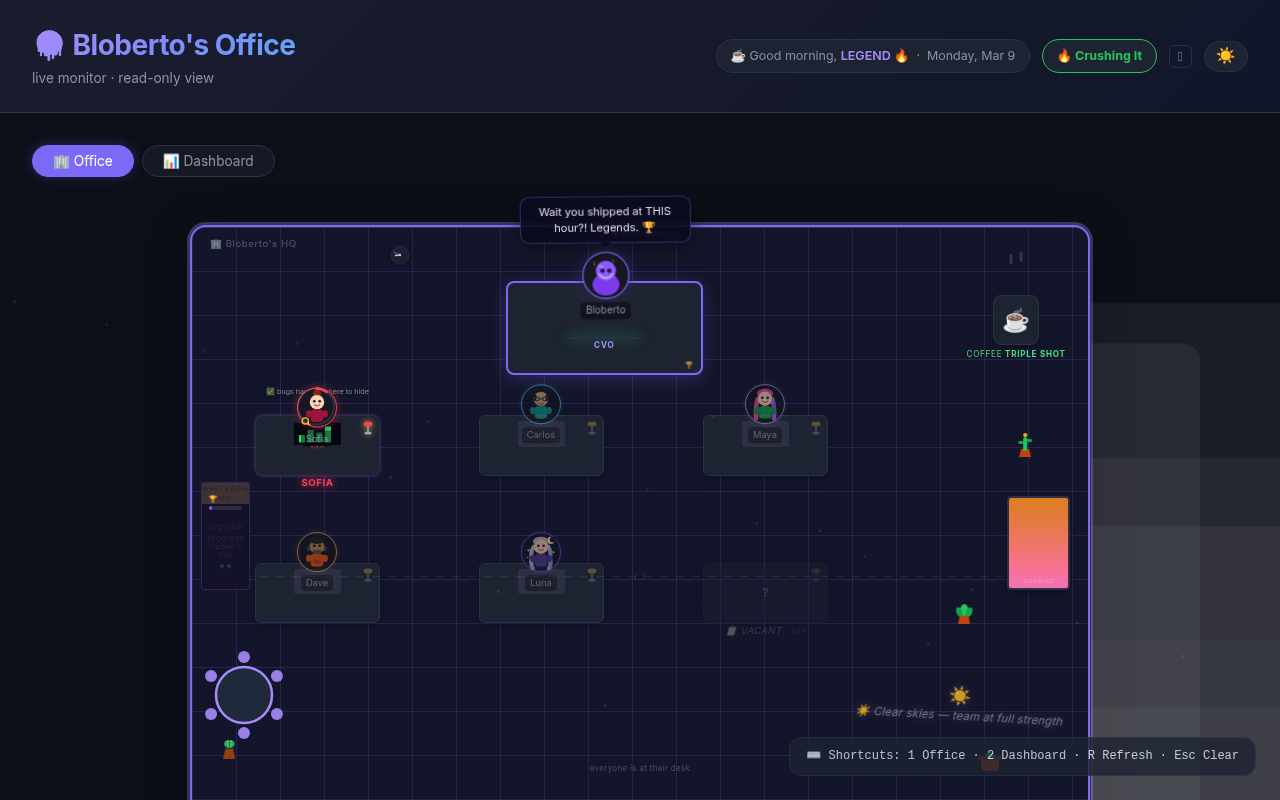
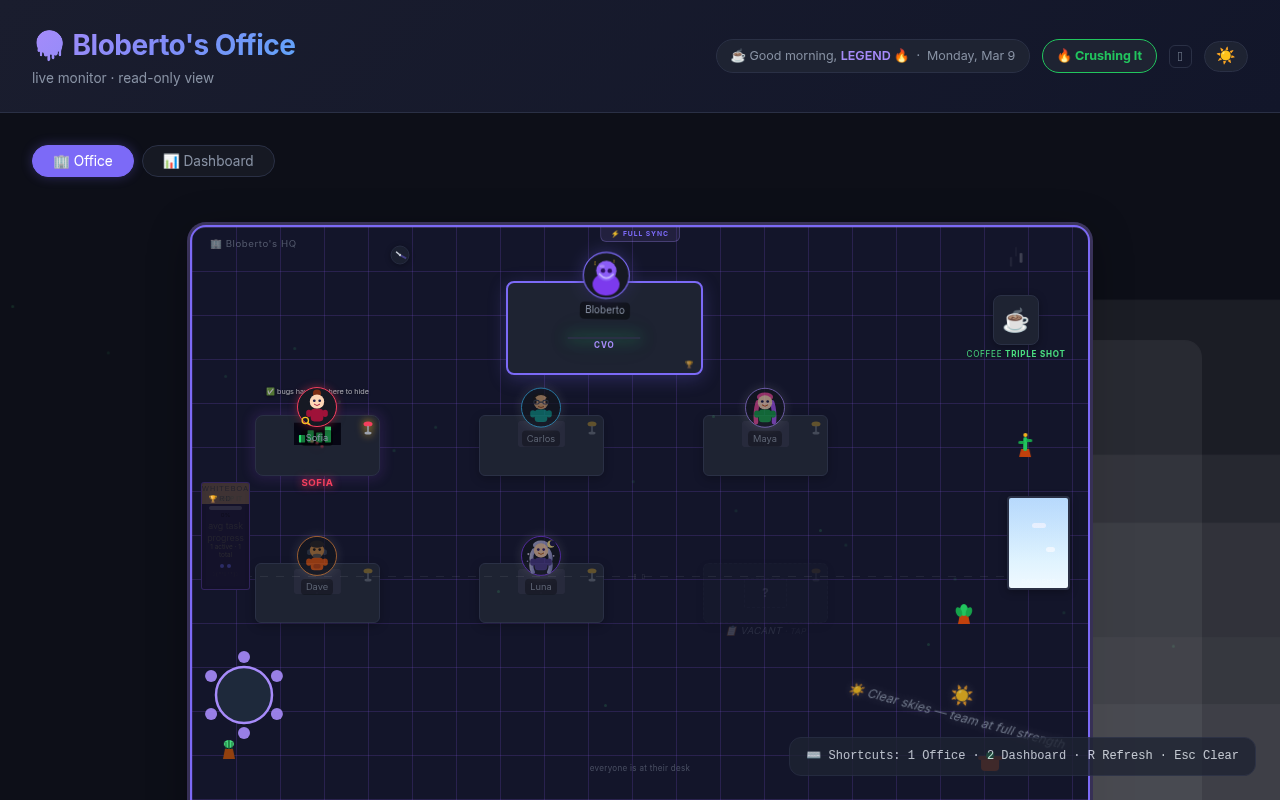
fix: pingReaction routing to correct worker, immutable normalize(), roster normalization
- Bloberto no longer hijacks worker click reactions (Office.jsx)
- normalize() returns new object instead of mutating in-place (App.jsx)
- Roster entries now go through normalize() for .id/.startedAt (App.jsx)

Fixes from Luna creative review #68

diff --git a/src/App.jsx b/src/App.jsx
@@ -769,18 +769,18 @@ export default function App() {
 
     if (workersResult.status === 'fulfilled') {
       const data = workersResult.value
-      const normalize = w => {
-        w.id = w.id || w.name?.toLowerCase().split(' ')[0]
-        w.startedAt = w.startedAt || w.started_at
-        return w
-      }
+      const normalize = w => ({
+        ...w,
+        id: w.id || w.name?.toLowerCase().split(' ')[0],
+        startedAt: w.startedAt || w.started_at
+      })
       // Support both flat array and {workers:[], roster:[]} formats
       if (Array.isArray(data)) {
         setAllWorkers(data.map(normalize))
         setRoster([])
       } else {
         setAllWorkers((data.workers ?? []).map(normalize))
-        setRoster(data.roster ?? [])
+        setRoster((data.roster ?? []).map(normalize))
       }
       setIsLive(true)
     } else {

diff --git a/src/Office.jsx b/src/Office.jsx
@@ -1436,7 +1436,7 @@ export default function Office({ workers = [], roster = [], isSyncing = false, a
         </div>
 
         {/* Bloberto — always at manager desk, always visible */}
-        <Character worker={bloberto} left={46} top={4} variant="manager" managerVibe={vibe} vibeKey={vibe} isSyncing={isSyncing} pingReaction={pingReaction} />
+        <Character worker={bloberto} left={46} top={4} variant="manager" managerVibe={vibe} vibeKey={vibe} isSyncing={isSyncing} pingReaction={null} />
 
         {/* Active workers at desks (working) or as ghosts (roster-only) — skip idle, they wander */}
         {DESKS.map((desk, i) => {
